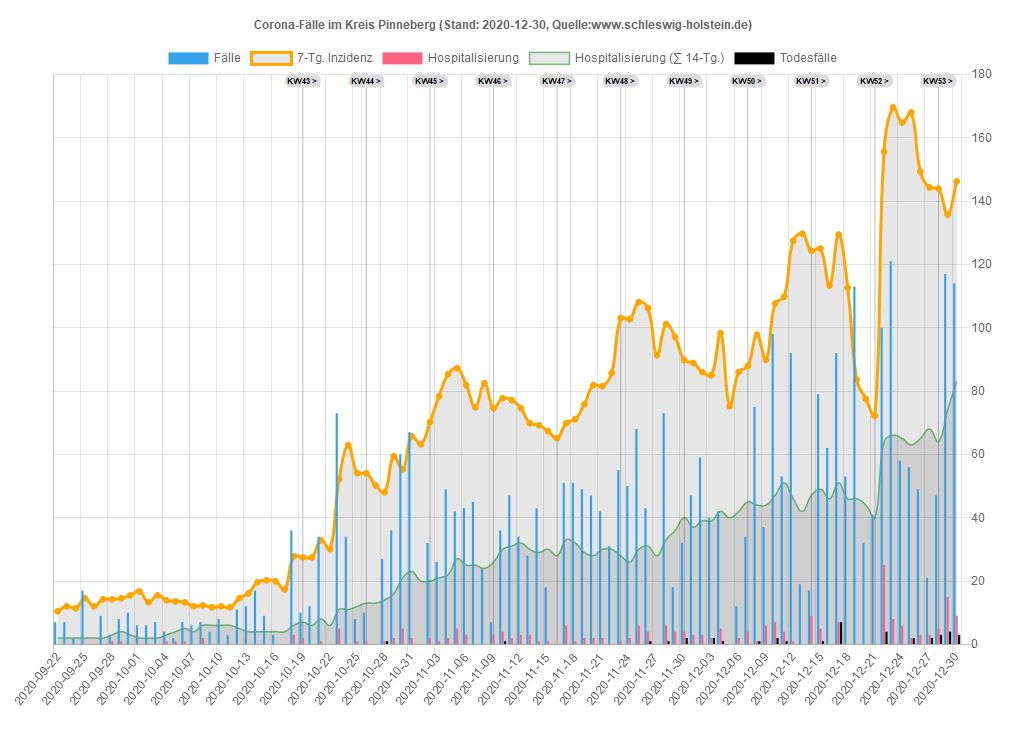
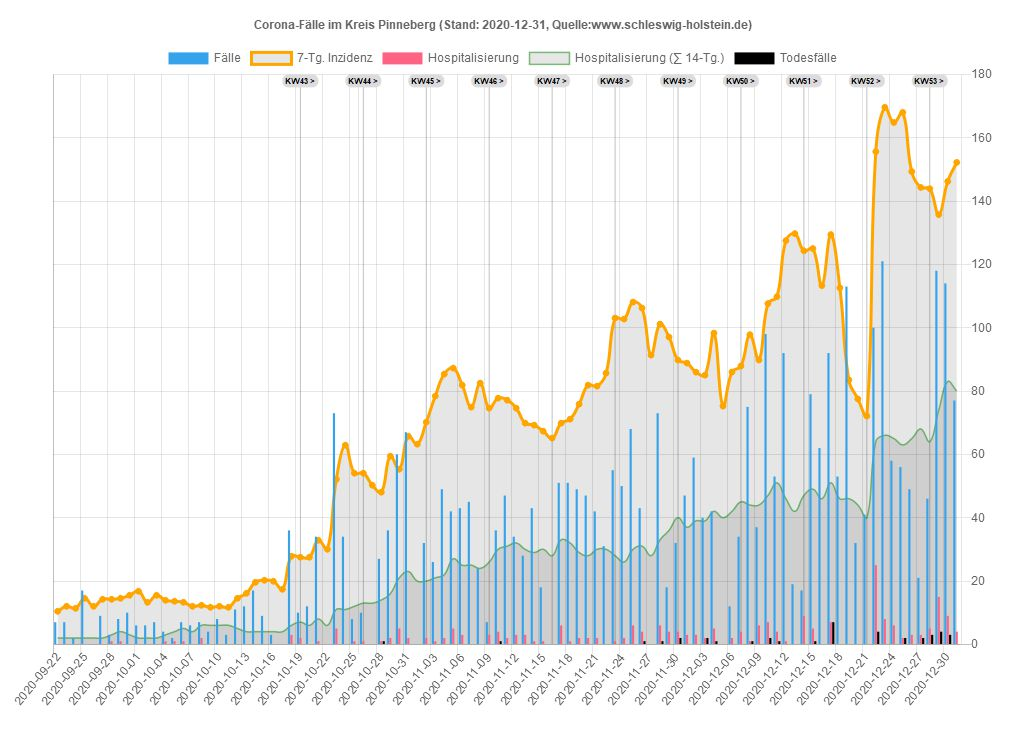
31.12.2020 20:36:31,01

Changed region(s): [[0.0938, 0.0931, 0.9375, 0.9622], [0.2812, 0.0931, 0.3125, 0.1242]]

diff --git a/sh/Data_SH.js b/sh/Data_SH.js
@@ -1,34 +1,34 @@
 var chdata={
-labels: ["2020-09-22","2020-09-23","2020-09-24","2020-09-25","2020-09-26","2020-09-27","2020-09-28","2020-09-29","2020-09-30","2020-10-01","2020-10-02","2020-10-03","2020-10-04","2020-10-05","2020-10-06","2020-10-07","2020-10-08","2020-10-09","2020-10-10","2020-10-11","2020-10-12","2020-10-13","2020-10-14","2020-10-15","2020-10-16","2020-10-17","2020-10-18","2020-10-19","2020-10-20","2020-10-21","2020-10-22","2020-10-23","2020-10-24","2020-10-25","2020-10-26","2020-10-27","2020-10-28","2020-10-29","2020-10-30","2020-10-31","2020-11-01","2020-11-02","2020-11-03","2020-11-04","2020-11-05","2020-11-06","2020-11-07","2020-11-08","2020-11-09","2020-11-10","2020-11-11","2020-11-12","2020-11-13","2020-11-14","2020-11-15","2020-11-16","2020-11-17","2020-11-18","2020-11-19","2020-11-20","2020-11-21","2020-11-22","2020-11-23","2020-11-24","2020-11-25","2020-11-26","2020-11-27","2020-11-28","2020-11-29","2020-11-30","2020-12-01","2020-12-02","2020-12-03","2020-12-04","2020-12-05","2020-12-06","2020-12-07","2020-12-08","2020-12-09","2020-12-10","2020-12-11","2020-12-12","2020-12-13","2020-12-14","2020-12-15","2020-12-16","2020-12-17","2020-12-18","2020-12-19","2020-12-20","2020-12-21","2020-12-22","2020-12-23","2020-12-24","2020-12-25","2020-12-26","2020-12-27","2020-12-28","2020-12-29","2020-12-30"],
+labels: ["2020-09-22","2020-09-23","2020-09-24","2020-09-25","2020-09-26","2020-09-27","2020-09-28","2020-09-29","2020-09-30","2020-10-01","2020-10-02","2020-10-03","2020-10-04","2020-10-05","2020-10-06","2020-10-07","2020-10-08","2020-10-09","2020-10-10","2020-10-11","2020-10-12","2020-10-13","2020-10-14","2020-10-15","2020-10-16","2020-10-17","2020-10-18","2020-10-19","2020-10-20","2020-10-21","2020-10-22","2020-10-23","2020-10-24","2020-10-25","2020-10-26","2020-10-27","2020-10-28","2020-10-29","2020-10-30","2020-10-31","2020-11-01","2020-11-02","2020-11-03","2020-11-04","2020-11-05","2020-11-06","2020-11-07","2020-11-08","2020-11-09","2020-11-10","2020-11-11","2020-11-12","2020-11-13","2020-11-14","2020-11-15","2020-11-16","2020-11-17","2020-11-18","2020-11-19","2020-11-20","2020-11-21","2020-11-22","2020-11-23","2020-11-24","2020-11-25","2020-11-26","2020-11-27","2020-11-28","2020-11-29","2020-11-30","2020-12-01","2020-12-02","2020-12-03","2020-12-04","2020-12-05","2020-12-06","2020-12-07","2020-12-08","2020-12-09","2020-12-10","2020-12-11","2020-12-12","2020-12-13","2020-12-14","2020-12-15","2020-12-16","2020-12-17","2020-12-18","2020-12-19","2020-12-20","2020-12-21","2020-12-22","2020-12-23","2020-12-24","2020-12-25","2020-12-26","2020-12-27","2020-12-28","2020-12-29","2020-12-30","2020-12-31"],
 datasets: [
 {label: 'Fälle',
 type: 'bar',
 backgroundColor: window.chartColors.blue,
-data: [38,42,63,53,15,15,38,48,49,27,50,16,24,39,54,45,79,54,26,25,65,65,65,55,90,26,88,163,111,160,136,236,142,115,164,164,280,215,313,265,161,142,236,262,220,274,233,177,215,252,247,192,296,158,161,100,294,208,264,250,153,121,145,251,256,225,180,219,71,81,244,240,245,318,234,154,183,314,297,529,384,472,140,241,486,322,602,508,431,157,211,776,722,306,229,229,202,260,483,528]},
+data: [38,42,63,53,15,15,38,48,49,27,50,16,24,39,54,45,79,54,26,25,65,65,65,55,90,26,88,163,111,160,136,236,142,115,164,164,280,215,313,265,161,142,236,262,220,274,233,177,215,252,247,192,296,158,161,100,294,208,264,250,153,121,145,251,256,225,180,219,71,81,244,240,245,318,234,154,183,314,297,529,384,472,140,241,486,322,602,508,431,157,211,776,722,306,229,229,202,260,483,528,340]},
 {label: '7-Tg. Inzidenz',
 type: 'line',
 pointBackgroundColor: 'orange',
 borderColor: 'orange',
-data: [7.23197027,7.88629139,8.74724023,9.40156135,9.33268544,9.16049567,9.09161977,9.4359993,9.67706498,8.43729865,8.33398478,8.36842274,8.67836432,8.71280227,8.91943,8.78167818,10.5724518,10.7102036,11.0545831,11.0890211,11.9844079,12.3632254,13.0519844,12.2254735,13.4652399,13.4652399,15.634831,19.0097504,20.5938963,23.8655019,26.6549761,31.6829174,35.67772,36.6075447,36.6419827,38.4671942,42.5997487,45.320347,47.9720694,52.2079377,53.7920836,53.0344486,55.5139813,54.8940981,55.0662879,53.7232077,52.6211932,53.1722004,55.6861711,56.2371783,55.720609,54.7563463,55.5139813,52.9311348,52.3801275,48.4197628,49.8661569,48.5230767,51.0026094,49.4184635,49.2462737,47.8687556,49.4184635,47.9376315,49.5906533,48.2475731,45.8369163,48.1098213,46.3879236,44.1838945,43.9428289,43.3918216,44.0805807,48.8330183,49.3495876,52.2079377,55.720609,58.1312658,60.0942291,69.874608,72.1475129,80.3437459,79.8616145,81.8590158,87.7823439,88.6432927,91.1572633,95.4275696,94.0156135,94.6010587,93.5679201,103.554927,117.330108,107.136474,97.5282848,90.5718181,92.121526,93.8089858,83.7186653,77.0377023]},
+data: [7.23197027,7.88629139,8.74724023,9.40156135,9.33268544,9.16049567,9.09161977,9.4359993,9.67706498,8.43729865,8.33398478,8.36842274,8.67836432,8.71280227,8.91943,8.78167818,10.5724518,10.7102036,11.0545831,11.0890211,11.9844079,12.3632254,13.0519844,12.2254735,13.4652399,13.4652399,15.634831,19.0097504,20.5938963,23.8655019,26.6549761,31.6829174,35.67772,36.6075447,36.6419827,38.4671942,42.5997487,45.320347,47.9720694,52.2079377,53.7920836,53.0344486,55.5139813,54.8940981,55.0662879,53.7232077,52.6211932,53.1722004,55.6861711,56.2371783,55.720609,54.7563463,55.5139813,52.9311348,52.3801275,48.4197628,49.8661569,48.5230767,51.0026094,49.4184635,49.2462737,47.8687556,49.4184635,47.9376315,49.5906533,48.2475731,45.8369163,48.1098213,46.3879236,44.1838945,43.9428289,43.3918216,44.0805807,48.8330183,49.3495876,52.2079377,55.720609,58.1312658,60.0942291,69.874608,72.1475129,80.3437459,79.8616145,81.8590158,87.7823439,88.6432927,91.1572633,95.4275696,94.0156135,94.6010587,93.5679201,103.554927,117.330108,107.136474,97.5282848,90.5718181,92.121526,93.8089858,83.7186653,77.0377023,78.2085928]},
 {label: 'Hospitalisierung',
 type: 'bar',
 backgroundColor: window.chartColors.red,
-data: [1,2,7,1,0,0,2,1,3,1,1,0,4,3,1,1,4,2,0,3,5,1,1,2,4,0,9,10,8,9,12,7,5,6,7,7,11,10,11,6,3,9,19,20,15,15,5,7,13,15,21,13,17,8,17,13,23,10,15,9,7,7,13,16,26,19,12,14,15,10,12,8,10,14,3,5,24,13,26,20,14,12,6,26,27,16,20,18,8,13,13,43,35,23,17,21,26,25,46,33]},
+data: [1,2,7,1,0,0,2,1,3,1,1,0,4,3,1,1,4,2,0,3,5,1,1,2,4,0,9,10,8,9,12,7,5,6,7,7,11,10,11,6,3,9,19,20,15,15,5,7,13,15,21,13,17,8,17,13,23,10,15,9,7,7,13,16,26,19,12,14,15,10,12,8,10,14,3,5,24,13,26,20,14,12,6,26,27,16,20,18,8,13,13,43,35,23,17,21,26,25,46,33,33]},
 {label: 'Hosp. (∑ 14-Tg.)',
 type: 'line',
 hidden: true,
 borderColor: 'rgba(0,255,0,0.5)',
 borderWidth: 1.5,
 pointRadius: 0,
-data: [12,12,20,22,22,22,22,23,23,21,22,21,24,26,26,25,22,23,23,26,29,29,27,28,31,31,36,43,50,58,66,71,76,79,81,87,97,105,112,118,112,111,122,133,136,144,144,145,151,159,169,172,178,180,194,198,202,192,192,186,188,188,188,189,194,200,195,201,199,196,185,183,178,183,179,177,188,185,185,186,188,186,177,193,208,216,226,230,235,243,232,262,271,274,277,286,306,305,324,341]},
+data: [12,12,20,22,22,22,22,23,23,21,22,21,24,26,26,25,22,23,23,26,29,29,27,28,31,31,36,43,50,58,66,71,76,79,81,87,97,105,112,118,112,111,122,133,136,144,144,145,151,159,169,172,178,180,194,198,202,192,192,186,188,188,188,189,194,200,195,201,199,196,185,183,178,183,179,177,188,185,185,186,188,186,177,193,208,216,226,230,235,243,232,262,271,274,277,286,306,305,324,341,354]},
 {label: 'Aktuell im Krankenhaus',
 type: 'line',
 pointBackgroundColor: 'green',
 borderColor: 'green',
-data: [6,6,6,6,6,6,6,11,11,11,11,14,14,15,15,14,14,14,13,13,18,18,18,21,24,24,24,24,31,31,31,31,51,51,58,58,58,58,58,58,58,94,110,114,119,118,124,120,126,116,113,119,112,116,116,148,145,151,141,141,141,141,155,142,122,113,118,118,118,124,114,110,109,114,114,114,131,122,128,132,133,133,133,177,181,194,201,212,236,250,275,271,267,262,262,262,262,309,318,322]},
+data: [6,6,6,6,6,6,6,11,11,11,11,14,14,15,15,14,14,14,13,13,18,18,18,21,24,24,24,24,31,31,31,31,51,51,58,58,58,58,58,58,58,94,110,114,119,118,124,120,126,116,113,119,112,116,116,148,145,151,141,141,141,141,155,142,122,113,118,118,118,124,114,110,109,114,114,114,131,122,128,132,133,133,133,177,181,194,201,212,236,250,275,271,267,262,262,262,262,309,318,322,346]},
 {label: 'Todesfälle',
 type: 'bar',
 backgroundColor: 'black',
-data: [0,0,0,0,0,0,0,1,0,0,0,0,0,0,0,0,0,0,0,0,0,1,0,0,0,0,0,0,0,0,1,0,0,3,0,0,3,4,1,0,2,6,7,2,2,6,0,1,4,3,5,0,5,1,3,5,0,2,2,2,1,0,3,4,1,3,3,1,4,2,3,1,4,1,0,1,4,2,5,7,7,1,2,2,6,7,11,3,2,0,9,15,4,3,4,7,10,18,17,14]},
+data: [0,0,0,0,0,0,0,1,0,0,0,0,0,0,0,0,0,0,0,0,0,1,0,0,0,0,0,0,0,0,1,0,0,3,0,0,3,4,1,0,2,6,7,2,2,6,0,1,4,3,5,0,5,1,3,5,0,2,2,2,1,0,3,4,1,3,3,1,4,2,3,1,4,1,0,1,4,2,5,7,7,1,2,2,6,7,11,3,2,0,9,15,4,3,4,7,10,18,17,14,2]},
 ]};
 

diff --git a/sh/Data_SH_Alter.js b/sh/Data_SH_Alter.js
@@ -110,7 +110,8 @@ var chdata={
 				{x: '2020-12-27', y: 'Alle', v: 91.8115844, casesum: 2666},{x: '2020-12-27', y: '00-09', v: 29.9935339, casesum: 77},{x: '2020-12-27', y: '10-19', v: 78.983504, casesum: 218},{x: '2020-12-27', y: '20-29', v: 120.639326, casesum: 386},{x: '2020-12-27', y: '30-39', v: 108.304645, casesum: 364},{x: '2020-12-27', y: '40-49', v: 97.3124183, casesum: 343},{x: '2020-12-27', y: '50-59', v: 87.2020848, casesum: 432},{x: '2020-12-27', y: '60-69', v: 75.3720463, casesum: 274},{x: '2020-12-27', y: '70-79', v: 49.6737415, casesum: 147},{x: '2020-12-27', y: '80-89', v: 159.917693, casesum: 286},{x: '2020-12-27', y: '90+', v: 482.370905, casesum: 139},
 				{x: '2020-12-28', y: 'Alle', v: 93.7056719, casesum: 2721},{x: '2020-12-28', y: '00-09', v: 31.1621131, casesum: 80},{x: '2020-12-28', y: '10-19', v: 73.5488593, casesum: 203},{x: '2020-12-28', y: '20-29', v: 125.63992, casesum: 402},{x: '2020-12-28', y: '30-39', v: 113.362829, casesum: 381},{x: '2020-12-28', y: '40-49', v: 99.298386, casesum: 350},{x: '2020-12-28', y: '50-59', v: 88.4132248, casesum: 438},{x: '2020-12-28', y: '60-69', v: 71.5209199, casesum: 260},{x: '2020-12-28', y: '70-79', v: 50.0116581, casesum: 148},{x: '2020-12-28', y: '80-89', v: 171.659901, casesum: 307},{x: '2020-12-28', y: '90+', v: 527.484731, casesum: 152},
 				{x: '2020-12-29', y: 'Alle', v: 83.6497894, casesum: 2429},{x: '2020-12-29', y: '00-09', v: 29.214481, casesum: 75},{x: '2020-12-29', y: '10-19', v: 56.157996, casesum: 155},{x: '2020-12-29', y: '20-29', v: 111.263213, casesum: 356},{x: '2020-12-29', y: '30-39', v: 94.3202545, casesum: 317},{x: '2020-12-29', y: '40-49', v: 87.3825797, casesum: 308},{x: '2020-12-29', y: '50-59', v: 75.4943975, casesum: 374},{x: '2020-12-29', y: '60-69', v: 69.3202762, casesum: 252},{x: '2020-12-29', y: '70-79', v: 56.7699903, casesum: 168},{x: '2020-12-29', y: '80-89', v: 158.799387, casesum: 284},{x: '2020-12-29', y: '90+', v: 485.841199, casesum: 140},
-				{x: '2020-12-30', y: 'Alle', v: 77.278768, casesum: 2244},{x: '2020-12-30', y: '00-09', v: 26.4877961, casesum: 68},{x: '2020-12-30', y: '10-19', v: 51.0856609, casesum: 141},{x: '2020-12-30', y: '20-29', v: 105.325007, casesum: 337},{x: '2020-12-30', y: '30-39', v: 85.6915876, casesum: 288},{x: '2020-12-30', y: '40-49', v: 77.7364507, casesum: 274},{x: '2020-12-30', y: '50-59', v: 73.273974, casesum: 363},{x: '2020-12-30', y: '60-69', v: 62.7183451, casesum: 228},{x: '2020-12-30', y: '70-79', v: 56.7699903, casesum: 168},{x: '2020-12-30', y: '80-89', v: 142.583957, casesum: 255},{x: '2020-12-30', y: '90+', v: 423.375902, casesum: 122}
+				{x: '2020-12-30', y: 'Alle', v: 77.278768, casesum: 2244},{x: '2020-12-30', y: '00-09', v: 26.4877961, casesum: 68},{x: '2020-12-30', y: '10-19', v: 51.0856609, casesum: 141},{x: '2020-12-30', y: '20-29', v: 105.325007, casesum: 337},{x: '2020-12-30', y: '30-39', v: 85.6915876, casesum: 288},{x: '2020-12-30', y: '40-49', v: 77.7364507, casesum: 274},{x: '2020-12-30', y: '50-59', v: 73.273974, casesum: 363},{x: '2020-12-30', y: '60-69', v: 62.7183451, casesum: 228},{x: '2020-12-30', y: '70-79', v: 56.7699903, casesum: 168},{x: '2020-12-30', y: '80-89', v: 142.583957, casesum: 255},{x: '2020-12-30', y: '90+', v: 423.375902, casesum: 122},
+				{x: '2020-12-31', y: 'Alle', v: 78.5529723, casesum: 2281},{x: '2020-12-31', y: '00-09', v: 25.3192169, casesum: 65},{x: '2020-12-31', y: '10-19', v: 48.911803, casesum: 135},{x: '2020-12-31', y: '20-29', v: 109.700527, casesum: 351},{x: '2020-12-31', y: '30-39', v: 91.6423923, casesum: 308},{x: '2020-12-31', y: '40-49', v: 77.1690314, casesum: 272},{x: '2020-12-31', y: '50-59', v: 77.3111076, casesum: 383},{x: '2020-12-31', y: '60-69', v: 63.268506, casesum: 230},{x: '2020-12-31', y: '70-79', v: 61.8387394, casesum: 183},{x: '2020-12-31', y: '80-89', v: 134.196665, casesum: 240},{x: '2020-12-31', y: '90+', v: 395.613548, casesum: 114}
 			],
 			backgroundColor: function(context) {
 				return inzColor(context.dataset.data[context.dataIndex].v)
@@ -118,7 +119,7 @@ var chdata={
 			width: function(context) {
 				const a = context.chart.chartArea
 				if (!a) return 0
-				return (a.right - a.left) / 107.5
+				return (a.right - a.left) / 108.5
 			},
 			height: function(context) {
 				const a = context.chart.chartArea
@@ -130,7 +131,7 @@ var chdata={
 	options: {
 		legend: { display: false },
 		scales: {
-			xAxes: [{type: 'category', labels: ["2020-09-15","2020-09-16","2020-09-17","2020-09-18","2020-09-19","2020-09-20","2020-09-21","2020-09-22","2020-09-23","2020-09-24","2020-09-25","2020-09-26","2020-09-27","2020-09-28","2020-09-29","2020-09-30","2020-10-01","2020-10-02","2020-10-03","2020-10-04","2020-10-05","2020-10-06","2020-10-07","2020-10-08","2020-10-09","2020-10-10","2020-10-11","2020-10-12","2020-10-13","2020-10-14","2020-10-15","2020-10-16","2020-10-17","2020-10-18","2020-10-19","2020-10-20","2020-10-21","2020-10-22","2020-10-23","2020-10-24","2020-10-25","2020-10-26","2020-10-27","2020-10-28","2020-10-29","2020-10-30","2020-10-31","2020-11-01","2020-11-02","2020-11-03","2020-11-04","2020-11-05","2020-11-06","2020-11-07","2020-11-08","2020-11-09","2020-11-10","2020-11-11","2020-11-12","2020-11-13","2020-11-14","2020-11-15","2020-11-16","2020-11-17","2020-11-18","2020-11-19","2020-11-20","2020-11-21","2020-11-22","2020-11-23","2020-11-24","2020-11-25","2020-11-26","2020-11-27","2020-11-28","2020-11-29","2020-11-30","2020-12-01","2020-12-02","2020-12-03","2020-12-04","2020-12-05","2020-12-06","2020-12-07","2020-12-08","2020-12-09","2020-12-10","2020-12-11","2020-12-12","2020-12-13","2020-12-14","2020-12-15","2020-12-16","2020-12-17","2020-12-18","2020-12-19","2020-12-20","2020-12-21","2020-12-22","2020-12-23","2020-12-24","2020-12-25","2020-12-26","2020-12-27","2020-12-28","2020-12-29","2020-12-30",], ticks: {display: true},gridlines:{display:false}}],
+			xAxes: [{type: 'category', labels: ["2020-09-15","2020-09-16","2020-09-17","2020-09-18","2020-09-19","2020-09-20","2020-09-21","2020-09-22","2020-09-23","2020-09-24","2020-09-25","2020-09-26","2020-09-27","2020-09-28","2020-09-29","2020-09-30","2020-10-01","2020-10-02","2020-10-03","2020-10-04","2020-10-05","2020-10-06","2020-10-07","2020-10-08","2020-10-09","2020-10-10","2020-10-11","2020-10-12","2020-10-13","2020-10-14","2020-10-15","2020-10-16","2020-10-17","2020-10-18","2020-10-19","2020-10-20","2020-10-21","2020-10-22","2020-10-23","2020-10-24","2020-10-25","2020-10-26","2020-10-27","2020-10-28","2020-10-29","2020-10-30","2020-10-31","2020-11-01","2020-11-02","2020-11-03","2020-11-04","2020-11-05","2020-11-06","2020-11-07","2020-11-08","2020-11-09","2020-11-10","2020-11-11","2020-11-12","2020-11-13","2020-11-14","2020-11-15","2020-11-16","2020-11-17","2020-11-18","2020-11-19","2020-11-20","2020-11-21","2020-11-22","2020-11-23","2020-11-24","2020-11-25","2020-11-26","2020-11-27","2020-11-28","2020-11-29","2020-11-30","2020-12-01","2020-12-02","2020-12-03","2020-12-04","2020-12-05","2020-12-06","2020-12-07","2020-12-08","2020-12-09","2020-12-10","2020-12-11","2020-12-12","2020-12-13","2020-12-14","2020-12-15","2020-12-16","2020-12-17","2020-12-18","2020-12-19","2020-12-20","2020-12-21","2020-12-22","2020-12-23","2020-12-24","2020-12-25","2020-12-26","2020-12-27","2020-12-28","2020-12-29","2020-12-30","2020-12-31",], ticks: {display: true},gridlines:{display:false}}],
 			yAxes: [{type: 'category', labels: ["Alle","00-09","10-19","20-29","30-39","40-49","50-59","60-69","70-79","80-89","90+"], offset:true, ticks: {display: true},gridlines:{display:false}}],
 		},
 	}

diff --git a/sh/Kreis_PI.js b/sh/Kreis_PI.js
@@ -1,33 +1,33 @@
 var chdata={
-labels: ["2020-09-22","2020-09-23","2020-09-24","2020-09-25","2020-09-26","2020-09-27","2020-09-28","2020-09-29","2020-09-30","2020-10-01","2020-10-02","2020-10-03","2020-10-04","2020-10-05","2020-10-06","2020-10-07","2020-10-08","2020-10-09","2020-10-10","2020-10-11","2020-10-12","2020-10-13","2020-10-14","2020-10-15","2020-10-16","2020-10-17","2020-10-18","2020-10-19","2020-10-20","2020-10-21","2020-10-22","2020-10-23","2020-10-24","2020-10-25","2020-10-26","2020-10-27","2020-10-28","2020-10-29","2020-10-30","2020-10-31","2020-11-01","2020-11-02","2020-11-03","2020-11-04","2020-11-05","2020-11-06","2020-11-07","2020-11-08","2020-11-09","2020-11-10","2020-11-11","2020-11-12","2020-11-13","2020-11-14","2020-11-15","2020-11-16","2020-11-17","2020-11-18","2020-11-19","2020-11-20","2020-11-21","2020-11-22","2020-11-23","2020-11-24","2020-11-25","2020-11-26","2020-11-27","2020-11-28","2020-11-29","2020-11-30","2020-12-01","2020-12-02","2020-12-03","2020-12-04","2020-12-05","2020-12-06","2020-12-07","2020-12-08","2020-12-09","2020-12-10","2020-12-11","2020-12-12","2020-12-13","2020-12-14","2020-12-15","2020-12-16","2020-12-17","2020-12-18","2020-12-19","2020-12-20","2020-12-21","2020-12-22","2020-12-23","2020-12-24","2020-12-25","2020-12-26","2020-12-27","2020-12-28","2020-12-29","2020-12-30"],
+labels: ["2020-09-22","2020-09-23","2020-09-24","2020-09-25","2020-09-26","2020-09-27","2020-09-28","2020-09-29","2020-09-30","2020-10-01","2020-10-02","2020-10-03","2020-10-04","2020-10-05","2020-10-06","2020-10-07","2020-10-08","2020-10-09","2020-10-10","2020-10-11","2020-10-12","2020-10-13","2020-10-14","2020-10-15","2020-10-16","2020-10-17","2020-10-18","2020-10-19","2020-10-20","2020-10-21","2020-10-22","2020-10-23","2020-10-24","2020-10-25","2020-10-26","2020-10-27","2020-10-28","2020-10-29","2020-10-30","2020-10-31","2020-11-01","2020-11-02","2020-11-03","2020-11-04","2020-11-05","2020-11-06","2020-11-07","2020-11-08","2020-11-09","2020-11-10","2020-11-11","2020-11-12","2020-11-13","2020-11-14","2020-11-15","2020-11-16","2020-11-17","2020-11-18","2020-11-19","2020-11-20","2020-11-21","2020-11-22","2020-11-23","2020-11-24","2020-11-25","2020-11-26","2020-11-27","2020-11-28","2020-11-29","2020-11-30","2020-12-01","2020-12-02","2020-12-03","2020-12-04","2020-12-05","2020-12-06","2020-12-07","2020-12-08","2020-12-09","2020-12-10","2020-12-11","2020-12-12","2020-12-13","2020-12-14","2020-12-15","2020-12-16","2020-12-17","2020-12-18","2020-12-19","2020-12-20","2020-12-21","2020-12-22","2020-12-23","2020-12-24","2020-12-25","2020-12-26","2020-12-27","2020-12-28","2020-12-29","2020-12-30","2020-12-31"],
 datasets: [
 {label: 'Fälle',
 type: 'bar',
 backgroundColor: window.chartColors.blue,
 yAxisID: 'first-y-axis',
-data: [7,7,2,17,0,9,3,8,10,6,6,7,4,2,7,6,7,4,8,3,11,12,17,9,3,0,36,10,12,34,0,73,34,8,10,0,27,36,60,67,0,32,26,49,42,43,45,24,7,36,47,34,28,43,18,0,51,51,49,47,42,31,55,50,68,43,0,73,18,32,47,59,40,42,0,12,34,75,37,98,53,92,19,17,79,62,92,53,113,32,41,100,121,58,56,49,21,47,117,114]},
+data: [7,7,2,17,0,9,3,8,10,6,6,7,4,2,7,6,7,4,8,3,11,12,17,9,3,0,36,10,12,34,0,73,34,8,10,0,27,36,60,67,0,32,26,49,42,43,45,24,7,36,47,34,28,43,18,0,51,51,49,47,42,31,55,50,68,43,0,73,18,32,47,59,40,42,0,12,34,75,37,98,53,92,19,17,79,62,92,53,113,32,41,100,121,58,56,49,21,46,118,114,77]},
 {label: '7-Tg. Inzidenz',
 type: 'line',
 pointBackgroundColor: 'orange',
 borderColor: 'orange',
 yAxisID: 'first-y-axis',
-data: [10.4300994,12.0104175,11.3782902,14.5389264,12.0104175,14.2228628,14.2228628,14.5389264,15.4871172,16.7513717,13.2746719,15.4871172,13.9067992,13.5907355,13.2746719,12.0104175,12.3264811,11.6943538,12.0104175,11.6943538,14.5389264,16.1192445,19.5959443,20.2280715,19.9120079,17.383499,27.8135983,27.4975347,27.4975347,32.8706162,30.0260436,52.1504969,62.8966598,54.0468786,54.0468786,50.2541151,48.0416698,59.41996,55.311133,65.7412324,63.2127235,70.166123,78.3837771,85.3371767,87.2335584,81.8604769,74.9070773,82.4926041,74.5910137,77.7516499,77.1195226,74.5910137,69.8500594,69.2179322,67.3215505,65.1091052,69.8500594,71.1143139,75.8552681,81.8604769,81.5444133,85.6532403,103.036739,102.720676,108.093757,106.197375,91.3423854,101.140358,97.0315305,89.7620673,88.8138765,85.9693039,85.021113,98.295785,75.2231409,86.0,87.9,97.8,89.8,107.6,109.8,127.5,129.7,124.3,125.0,113.3,129.4,112.6,83.5,77.5,72.1,155.6,169.6,164.8,168.0,149.3,144.3,143.9,135.7,146.2]},
+data: [10.4300994,12.0104175,11.3782902,14.5389264,12.0104175,14.2228628,14.2228628,14.5389264,15.4871172,16.7513717,13.2746719,15.4871172,13.9067992,13.5907355,13.2746719,12.0104175,12.3264811,11.6943538,12.0104175,11.6943538,14.5389264,16.1192445,19.5959443,20.2280715,19.9120079,17.383499,27.8135983,27.4975347,27.4975347,32.8706162,30.0260436,52.1504969,62.8966598,54.0468786,54.0468786,50.2541151,48.0416698,59.41996,55.311133,65.7412324,63.2127235,70.166123,78.3837771,85.3371767,87.2335584,81.8604769,74.9070773,82.4926041,74.5910137,77.7516499,77.1195226,74.5910137,69.8500594,69.2179322,67.3215505,65.1091052,69.8500594,71.1143139,75.8552681,81.8604769,81.5444133,85.6532403,103.036739,102.720676,108.093757,106.197375,91.3423854,101.140358,97.0315305,89.7620673,88.8138765,85.9693039,85.021113,98.295785,75.2231409,86.0,87.9,97.8,89.8,107.6,109.8,127.5,129.7,124.3,125.0,113.3,129.4,112.6,83.5,77.5,72.1,155.6,169.6,164.8,168.0,149.3,144.3,143.9,135.7,146.2,152.2]},
 {label: 'Hospitalisierung',
 type: 'bar',
 backgroundColor: window.chartColors.red,
 yAxisID: 'first-y-axis',
-data: [0,0,0,0,0,0,1,1,0,0,0,0,1,1,1,-1,2,0,0,0,0,0,0,0,0,0,3,2,0,1,0,5,0,1,1,0,1,2,5,2,0,2,1,2,5,3,0,0,3,4,2,3,3,1,1,0,6,1,2,2,2,0,1,2,6,4,0,6,4,4,3,3,2,5,0,2,4,1,6,7,4,1,0,9,5,0,7,0,0,0,0,25,8,6,2,3,3,5,15,9]},
+data: [0,0,0,0,0,0,1,1,0,0,0,0,1,1,1,-1,2,0,0,0,0,0,0,0,0,0,3,2,0,1,0,5,0,1,1,0,1,2,5,2,0,2,1,2,5,3,0,0,3,4,2,3,3,1,1,0,6,1,2,2,2,0,1,2,6,4,0,6,4,4,3,3,2,5,0,2,4,1,6,7,4,1,0,9,5,0,7,0,0,0,0,25,8,6,2,3,3,5,15,9,4]},
 {label: 'Hospitalisierung (∑ 14-Tg.)',
 type: 'line',
 pointRadius: 0,
 borderColor: 'rgba(0,128,0,0.5)',
 borderWidth: 1.5,
 yAxisID: 'first-y-axis',
-data: [2,2,2,2,2,2,3,4,3,2,2,2,3,4,5,4,6,6,6,6,5,4,4,4,4,4,6,7,6,8,6,11,11,12,13,13,14,16,21,23,20,20,21,22,27,25,25,24,26,30,31,32,30,29,30,28,33,32,29,28,30,30,28,26,30,31,28,33,36,40,37,39,39,42,40,42,45,44,44,47,51,46,42,47,49,46,51,46,46,44,40,64,66,65,63,65,68,64,74,83]},
+data: [2,2,2,2,2,2,3,4,3,2,2,2,3,4,5,4,6,6,6,6,5,4,4,4,4,4,6,7,6,8,6,11,11,12,13,13,14,16,21,23,20,20,21,22,27,25,25,24,26,30,31,32,30,29,30,28,33,32,29,28,30,30,28,26,30,31,28,33,36,40,37,39,39,42,40,42,45,44,44,47,51,46,42,47,49,46,51,46,46,44,40,64,66,65,63,65,68,64,74,83,80]},
 {label: 'Todesfälle',
 type: 'bar',
 backgroundColor: 'black',
 yAxisID: 'first-y-axis',
-data: [0,0,0,0,0,0,0,0,0,0,0,0,0,0,0,0,0,0,0,0,0,0,0,0,0,0,0,0,0,0,0,0,0,0,0,0,1,0,0,0,0,0,0,0,0,0,0,0,0,1,0,0,0,0,0,0,0,0,0,0,0,0,0,0,0,1,0,1,0,2,0,0,2,1,0,0,0,1,0,2,1,0,0,0,1,0,7,0,0,0,0,4,0,0,2,0,2,3,4,3]},
+data: [0,0,0,0,0,0,0,0,0,0,0,0,0,0,0,0,0,0,0,0,0,0,0,0,0,0,0,0,0,0,0,0,0,0,0,0,1,0,0,0,0,0,0,0,0,0,0,0,0,1,0,0,0,0,0,0,0,0,0,0,0,0,0,0,0,1,0,1,0,2,0,0,2,1,0,0,0,1,0,2,1,0,0,0,1,0,7,0,0,0,0,4,0,0,2,0,2,3,4,3,0]},
 ]};
 

diff --git a/sterblichkeit/index_ueber.html b/sterblichkeit/index_ueber.html
@@ -77,7 +77,7 @@ Die Sterbefälle/Übersterblichkeit stammen vom CDC. Die Sterbefälle entspreche
 <ul>
 <li>EUROSTAT: <a href="https://ec.europa.eu/eurostat">https://ec.europa.eu/eurostat</a>: <span id="eurostat_date"></span> (Sterbefalldaten Europa)</li>
 <li>ECDC: <a href="https://www.ecdc.europa.eu/en/coronavirus">https://www.ecdc.europa.eu/en/coronavirus</a> (Sterbefalldaten COVID-19)</li>
-<li>Johns Hopkins: <a href="https://github.com/CSSEGISandData/COVID-19">https://github.com/CSSEGISandData/COVID-19</a> (Sterbefalldaten Johns Hopkins University Center for Systems Sciens and Engineering (JHU CSSE))</li>
+<li>JHU: <a href="https://github.com/CSSEGISandData/COVID-19">https://github.com/CSSEGISandData/COVID-19</a> (Sterbefalldaten Johns Hopkins University Center for Systems Science and Engineering (JHU CSSE))</li>
 <li>CDC: <a href="https://www.cdc.gov/nchs/nvss/vsrr/covid19/excess_deaths.htm">https://www.cdc.gov/nchs/nvss/vsrr/covid19/excess_deaths.htm</a> (Sterbefalldaten USA)</li>
 </ul>
 <script>

diff --git a/sh/index_sh_alter.html b/sh/index_sh_alter.html
@@ -5,7 +5,7 @@
 <meta property="og:image" content="index_sh_alter.jpg" />
 <meta property="og:type" content="website" />
 <meta property="og:locale" content="de_DE" />
-<meta property="og:updated_time" content="2020-12-31T14:19:21+01:00" />
+<meta property="og:updated_time" content="2020-12-31T20:36:30+01:00" />
 <title>Altersverteilung der Corona-Fälle in Schleswig-Holstein</title>
 <link rel="stylesheet" href="../css/style.css" media="screen" type="text/css">
 <link rel="stylesheet" media="screen" href="Chart.min.css"> 

diff --git a/sh/index_pi_alter.html b/sh/index_pi_alter.html
@@ -5,7 +5,7 @@
 <meta property="og:image" content="index_pi_alter.jpg" />
 <meta property="og:type" content="website" />
 <meta property="og:locale" content="de_DE" />
-<meta property="og:updated_time" content="2020-12-31T14:19:21+01:00" />
+<meta property="og:updated_time" content="2020-12-31T20:36:30+01:00" />
 <title>Altersverteilung der Corona-Fälle im Kreis Pinneberg</title>
 <link rel="stylesheet" href="../css/style.css" media="screen" type="text/css">
 <link rel="stylesheet" media="screen" href="Chart.min.css"> 

diff --git a/sh/index.html b/sh/index.html
@@ -5,7 +5,7 @@
 <meta property="og:image" content="index.jpg" />
 <meta property="og:type" content="website" />
 <meta property="og:locale" content="de_DE" />
-<meta property="og:updated_time" content="2020-12-31T14:19:21+01:00" />
+<meta property="og:updated_time" content="2020-12-31T20:36:30+01:00" />
 <title>Corona-Fälle im Kreis Pinneberg</title>
 <link rel="stylesheet" href="../css/style.css" media="screen" type="text/css">
 <link rel="stylesheet" media="screen" href="Chart.min.css"> 
